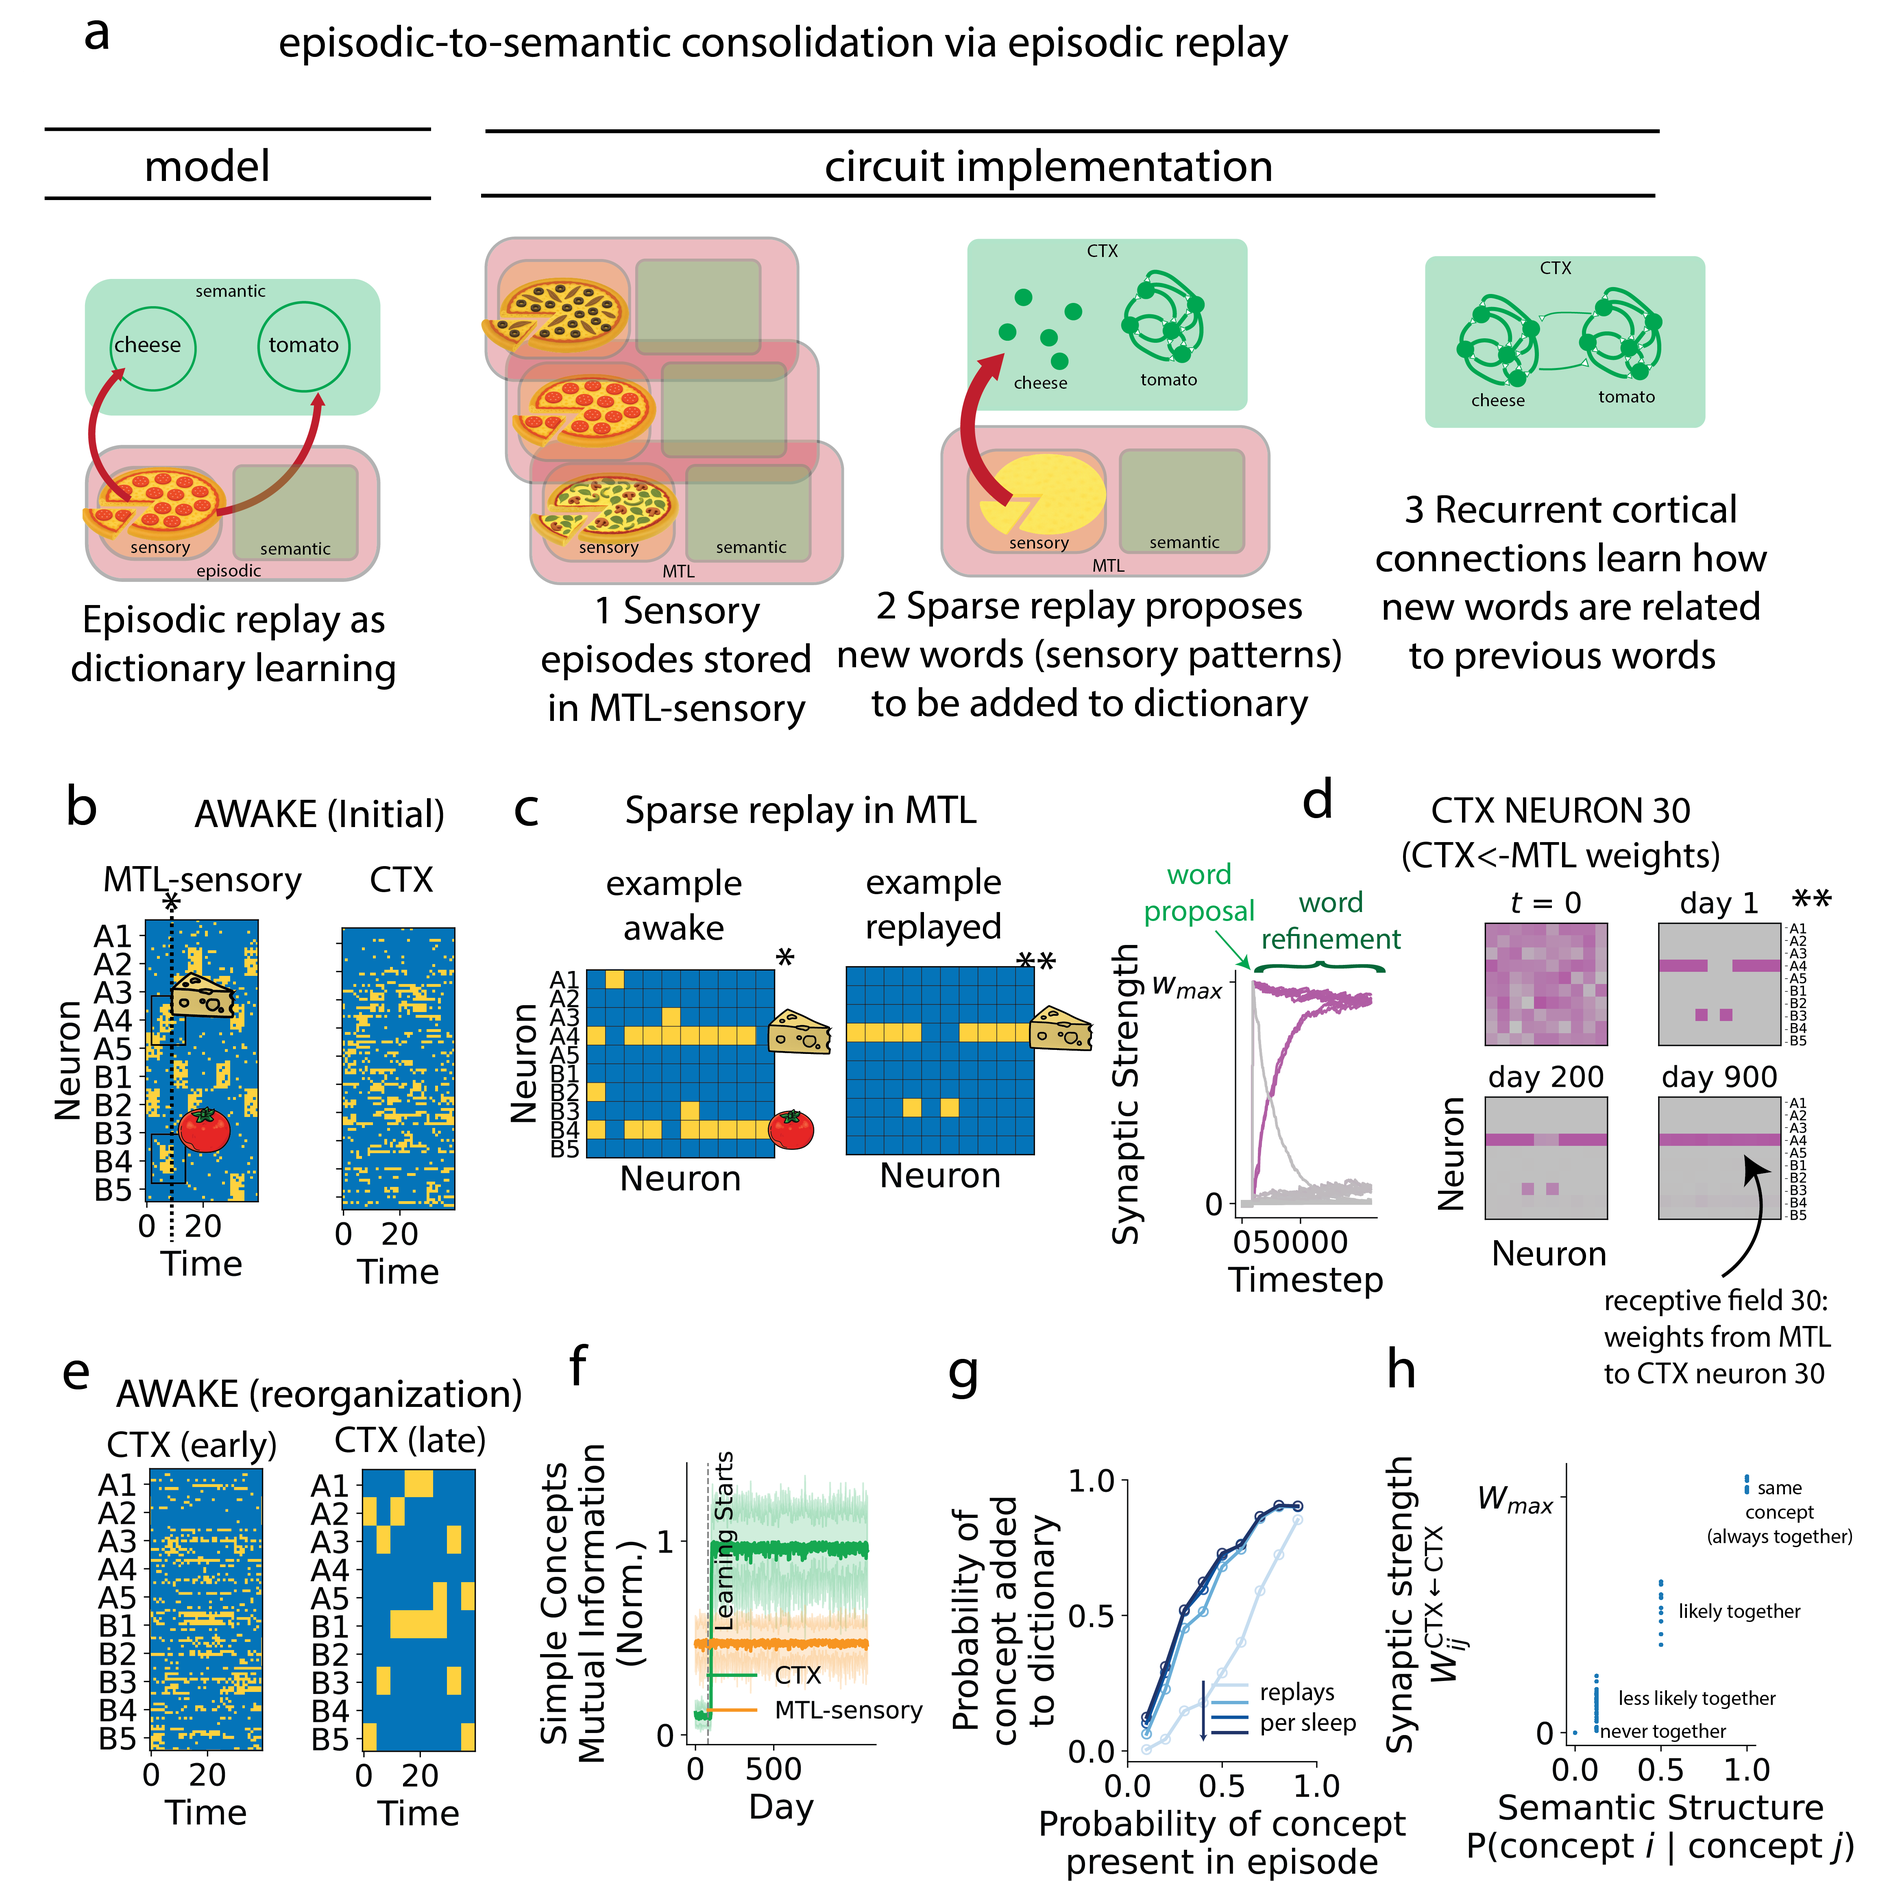
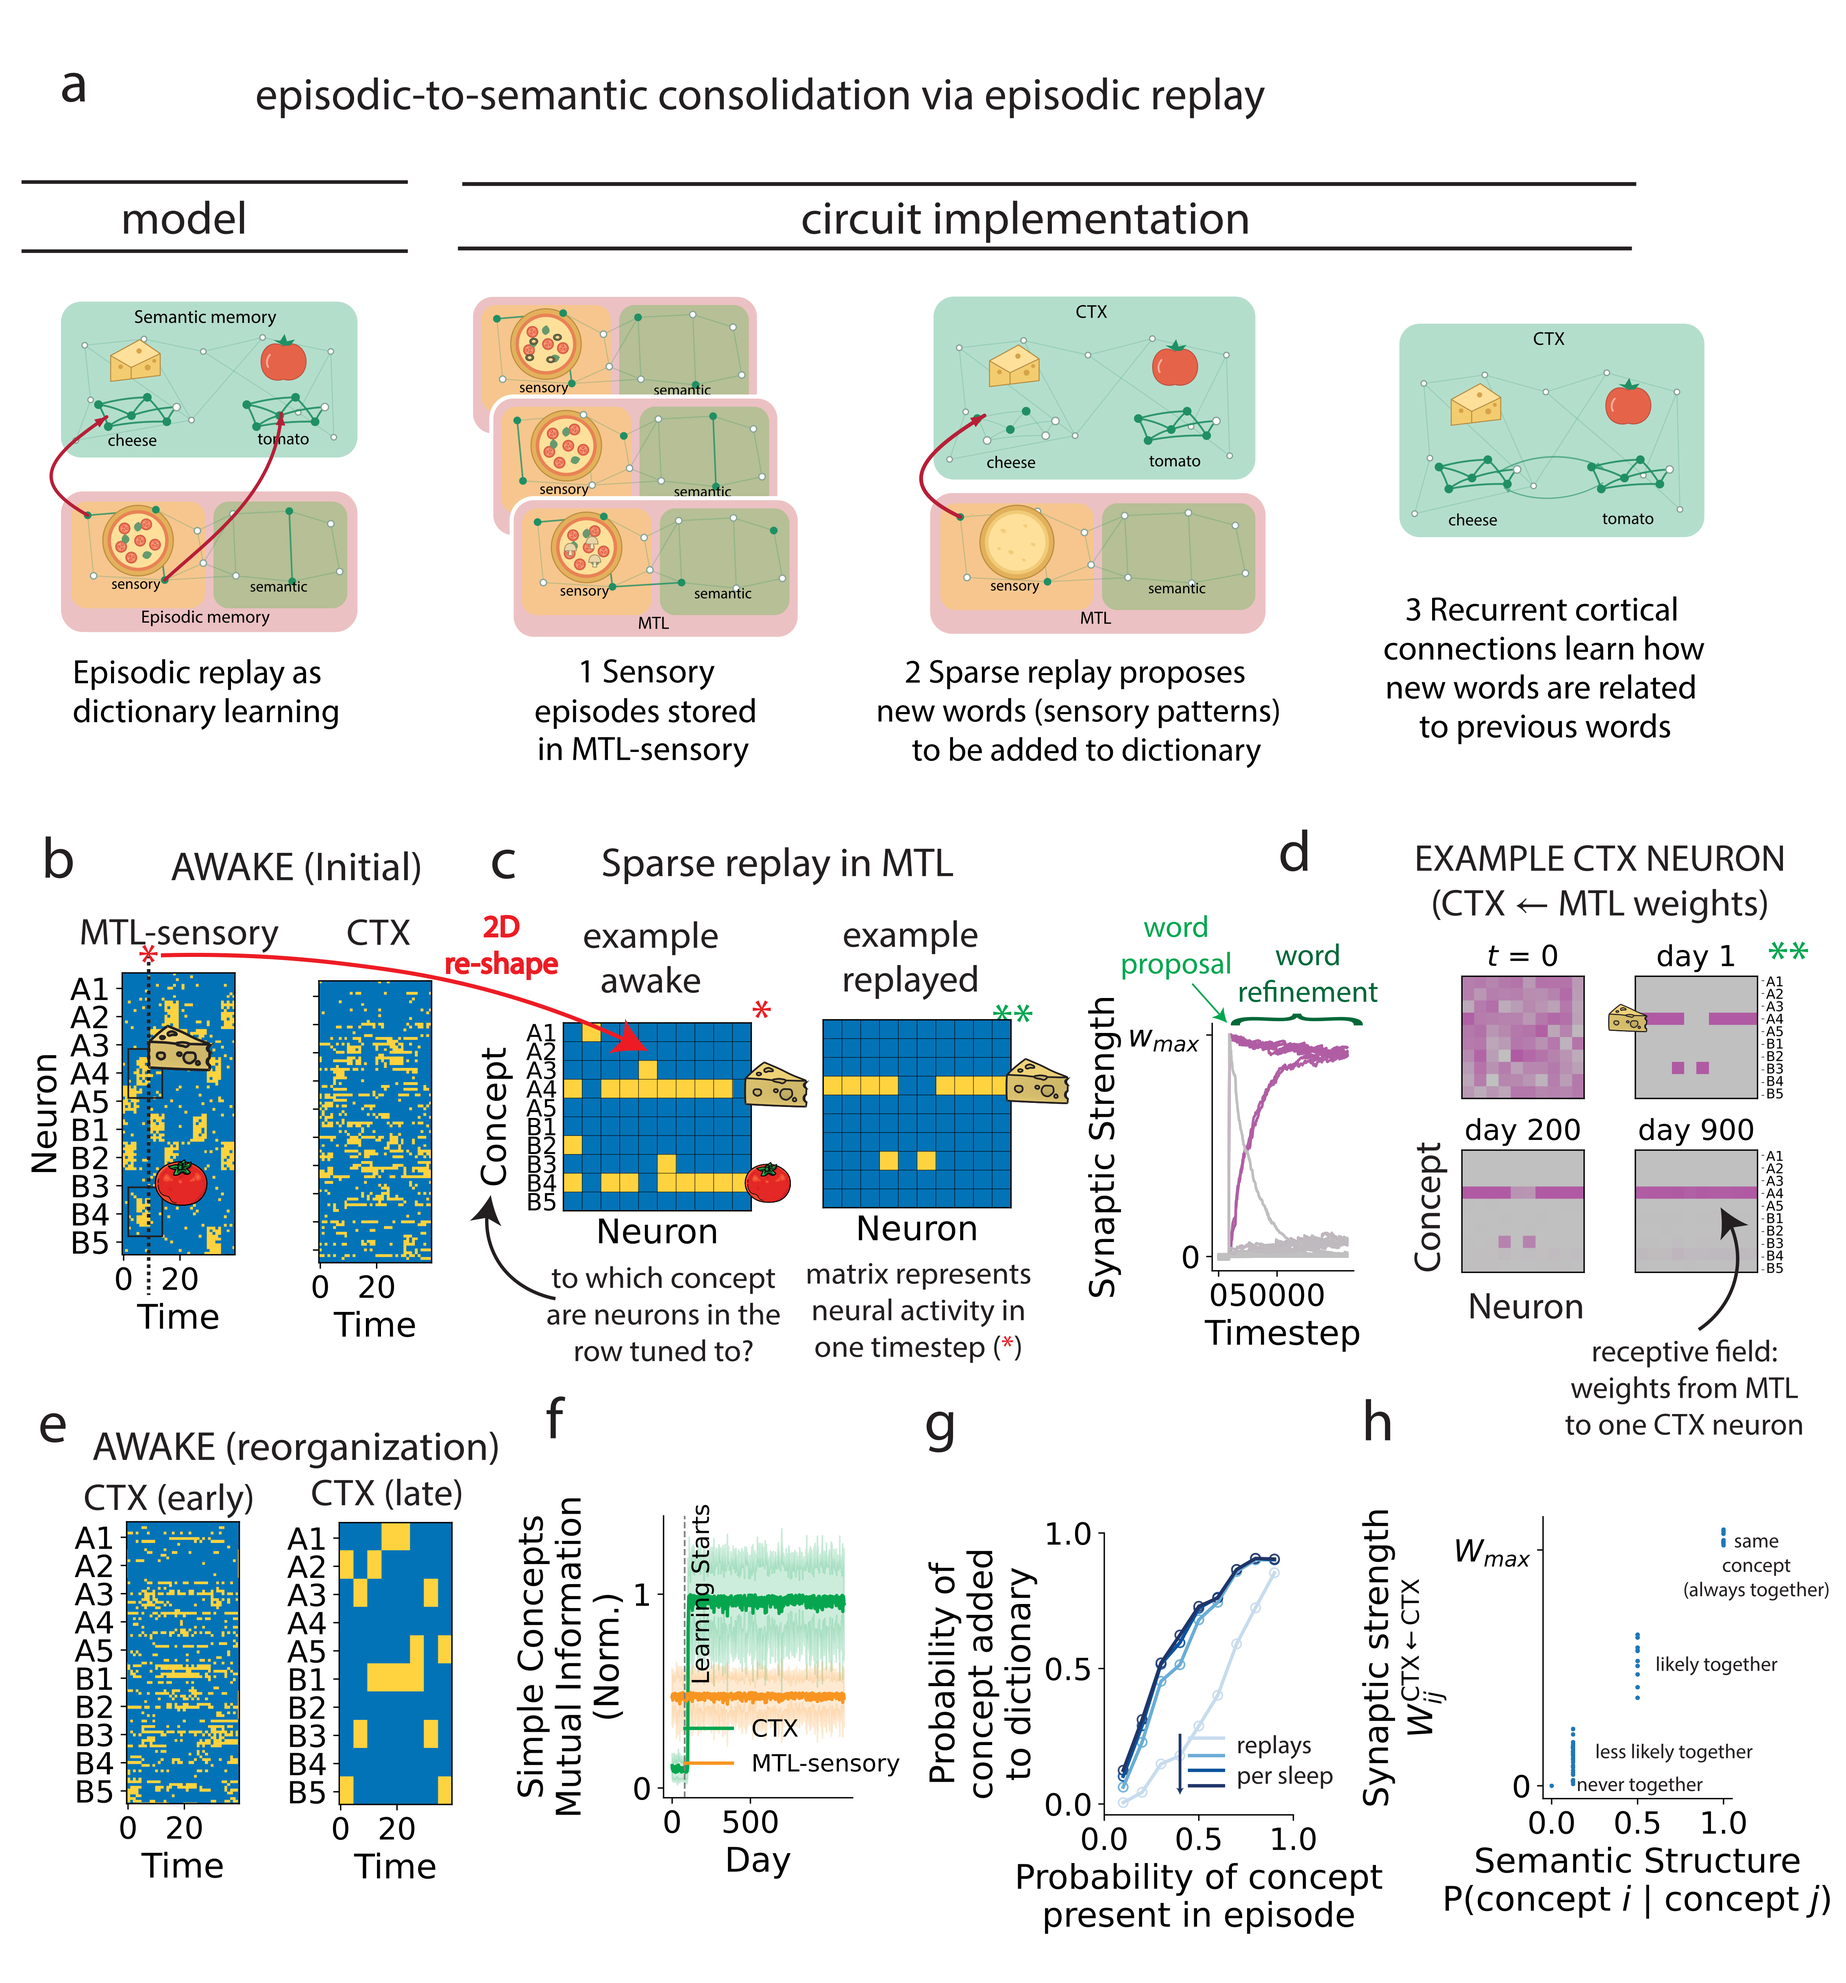
Update figure labels and refresh manuscript figures

diff --git a/src/plotting_parameters.py b/src/plotting_parameters.py
@@ -4,7 +4,7 @@ plotting_parameters = {
         "reshape_rows": 10,
         "weight_ticks": [5, 15, 25, 35, 45, 55, 65, 75, 85, 95],
         "weight_ticklabels": [f"A{i+1}" for i in range(5)] + [f"B{i+1}" for i in range(5)],
-        "ylabel": "Neuron",
+        "ylabel": "Concept",
         "xlabel": "Neuron",
         "show_xticks": False,
         "show_yticks": True,
@@ -21,7 +21,7 @@ plotting_parameters = {
         "reshape_rows": 10,
         "weight_ticks": [5, 15, 25, 35, 45, 55, 65, 75, 85, 95],
         "weight_ticklabels": [f"A{i+1}" for i in range(5)] + [f"B{i+1}" for i in range(5)],
-        "ylabel": "Neuron",
+        "ylabel": "Concept",
         "xlabel": "Neuron",
         "show_xticks": False,
         "show_yticks": True,
